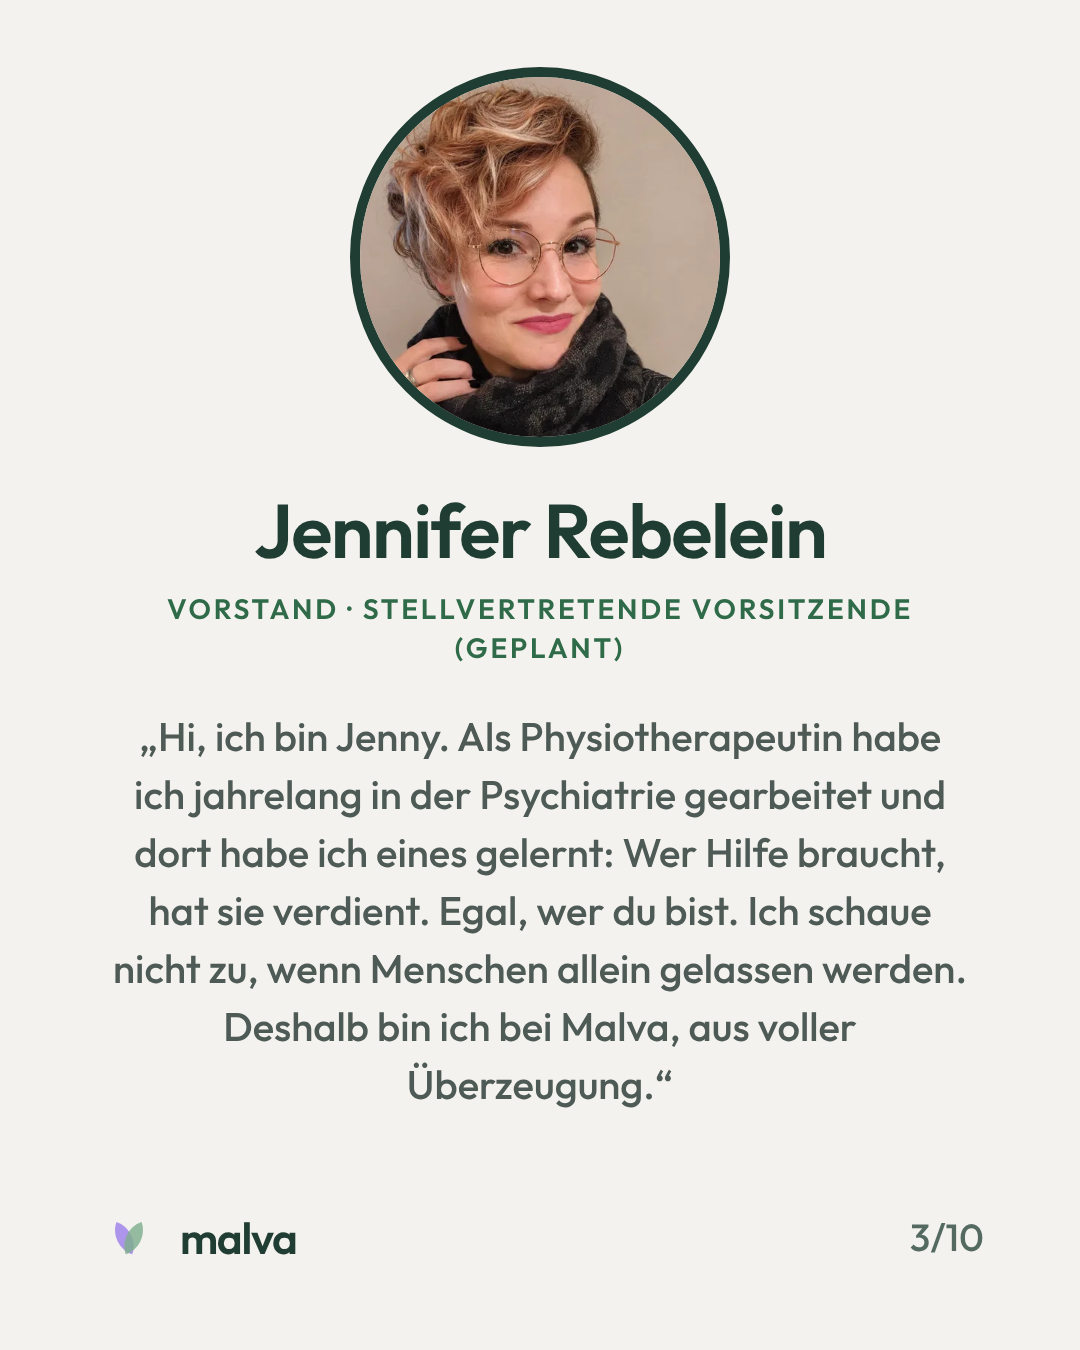
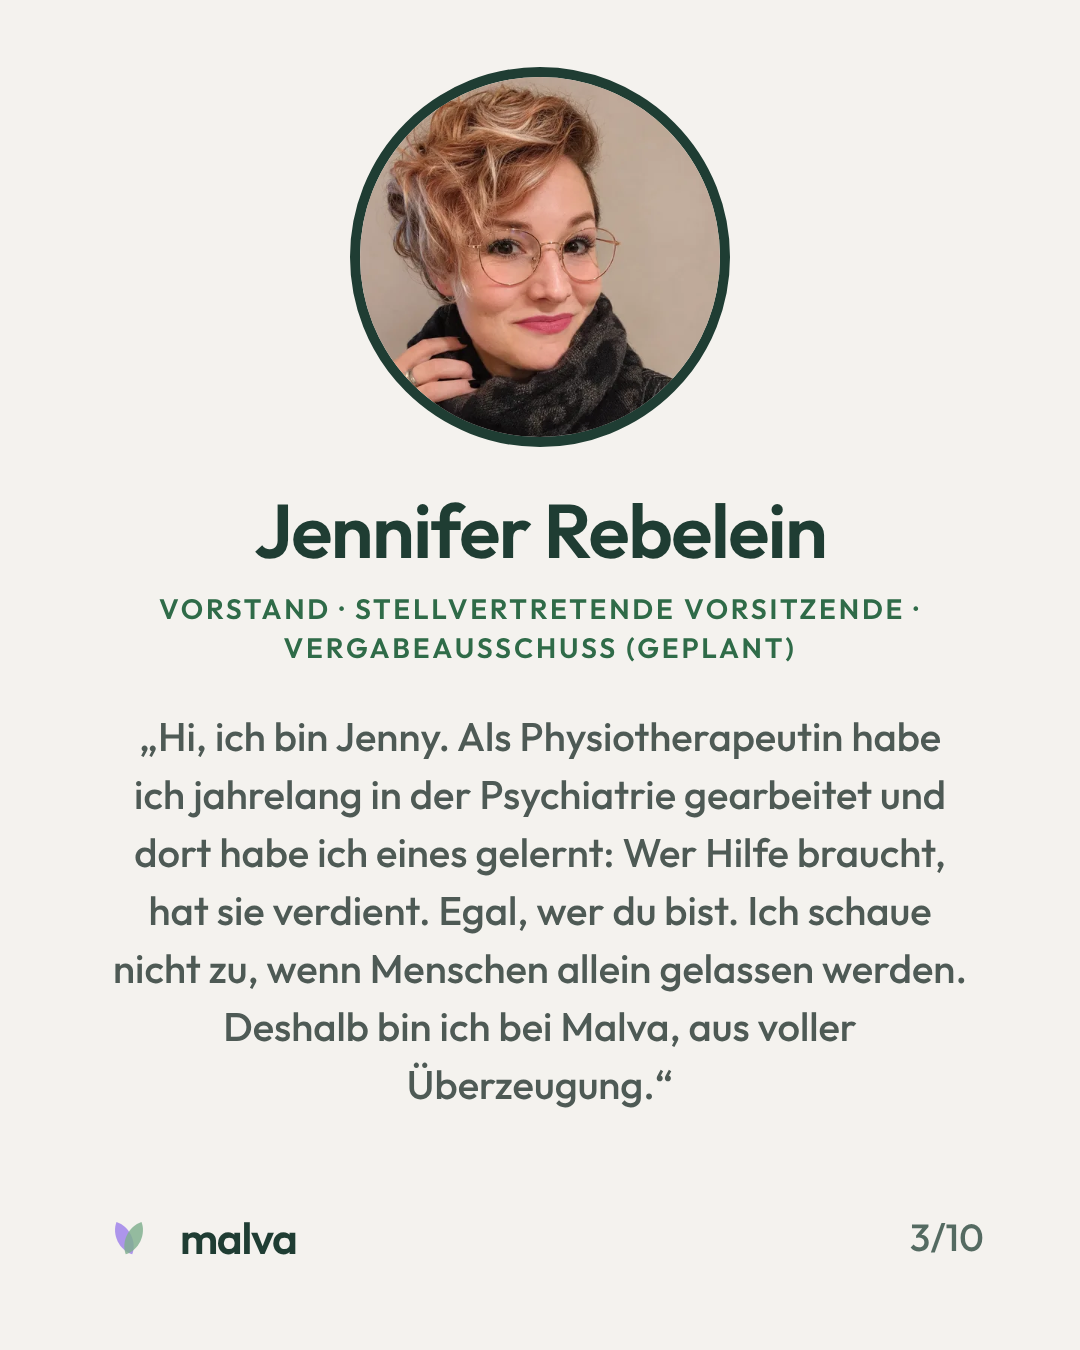
Jenny im Vergabeausschuss
Claude-Session: https://claude.ai/code/session_015uEer6M6e5oi78ZvJtGjnt

Changed region(s): [[0.1528, 0.4356, 0.8556, 0.4978]]

diff --git a/malva-website/instagram/team/slides.html b/malva-website/instagram/team/slides.html
@@ -62,7 +62,7 @@ h2{font-weight:600;font-size:82px;line-height:1.12;letter-spacing:-.025em}
 <section class="slide light m" id="s03">
   <img class="pic" src="../../src/assets/img/jennifer-rebelein-rund.webp" alt="">
   <p class="nm">Jennifer Rebelein</p>
-  <p class="rl">Vorstand · Stellvertretende Vorsitzende (geplant)</p>
+  <p class="rl">Vorstand · Stellvertretende Vorsitzende · Vergabeausschuss (geplant)</p>
   <p class="q">„Hi, ich bin Jenny. Als Physiotherapeutin habe ich jahrelang in der Psychiatrie gearbeitet und dort habe ich eines gelernt: Wer Hilfe braucht, hat sie verdient. Egal, wer du bist. Ich schaue nicht zu, wenn Menschen allein gelassen werden. Deshalb bin ich bei Malva, aus voller Überzeugung.“</p>
   <div class="foot"><div class="brand" data-mark="h"><span>malva</span></div><span class="num">3/10</span></div>
 </section>

diff --git a/malva-website/NOTIZEN.md b/malva-website/NOTIZEN.md
@@ -83,6 +83,6 @@ Reihenfolge laut Natascha: erst Homepage fertig, dann Satzung fürs Finanzamt.
 - Kernbotschaft: Malva ist aus ihrem Herzen entstanden; mentale Gesundheit darf kein Privileg von Kontostand sein; alle haben ein erfülltes Leben verdient.
 
 ## Vergabeausschuss (Satzung § 11a, Stand 18.11.2026)
-- Bisher fest: Natascha Helbig (Vorsitz), Christine Franz (Kasse). OFFEN: 2–3 Mitglieder ohne Vorstandsamt (laut Satzung § 11a nötig). Satzung § 11a: Vorsitz + Kasse + 2–3 weitere ohne Vorstandsamt (von der Mitgliederversammlung gewählt). Bei Gleichstand: abgelehnt bzw. neu beraten.
+- Bisher fest: Natascha Helbig (Vorsitz), Christine Franz (Kasse), Jennifer Rebelein (stellv. Vorsitz) – Satzung § 11a muss dafür angepasst werden. OFFEN: 2–3 Mitglieder ohne Vorstandsamt (laut Satzung § 11a nötig). Satzung § 11a: Vorsitz + Kasse + 2–3 weitere ohne Vorstandsamt (von der Mitgliederversammlung gewählt). Bei Gleichstand: abgelehnt bzw. neu beraten.
 - Mehrheit; jede Bewilligung braucht mindestens eine Zustimmung von außerhalb des Vorstands. Befangene wirken nicht mit. Schweigepflicht schriftlich.
 - Vorstand macht Vergaberichtlinien und zahlt aus.
